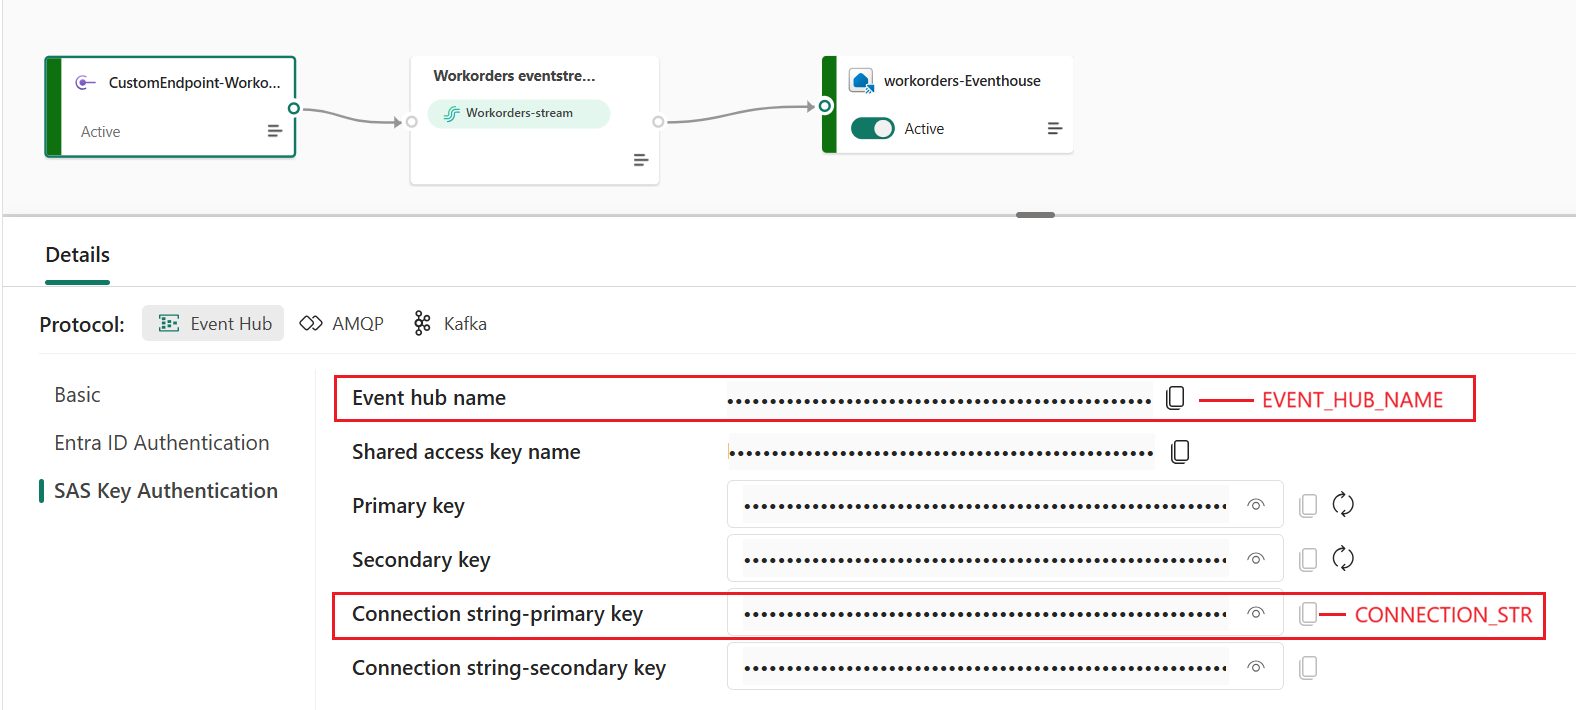
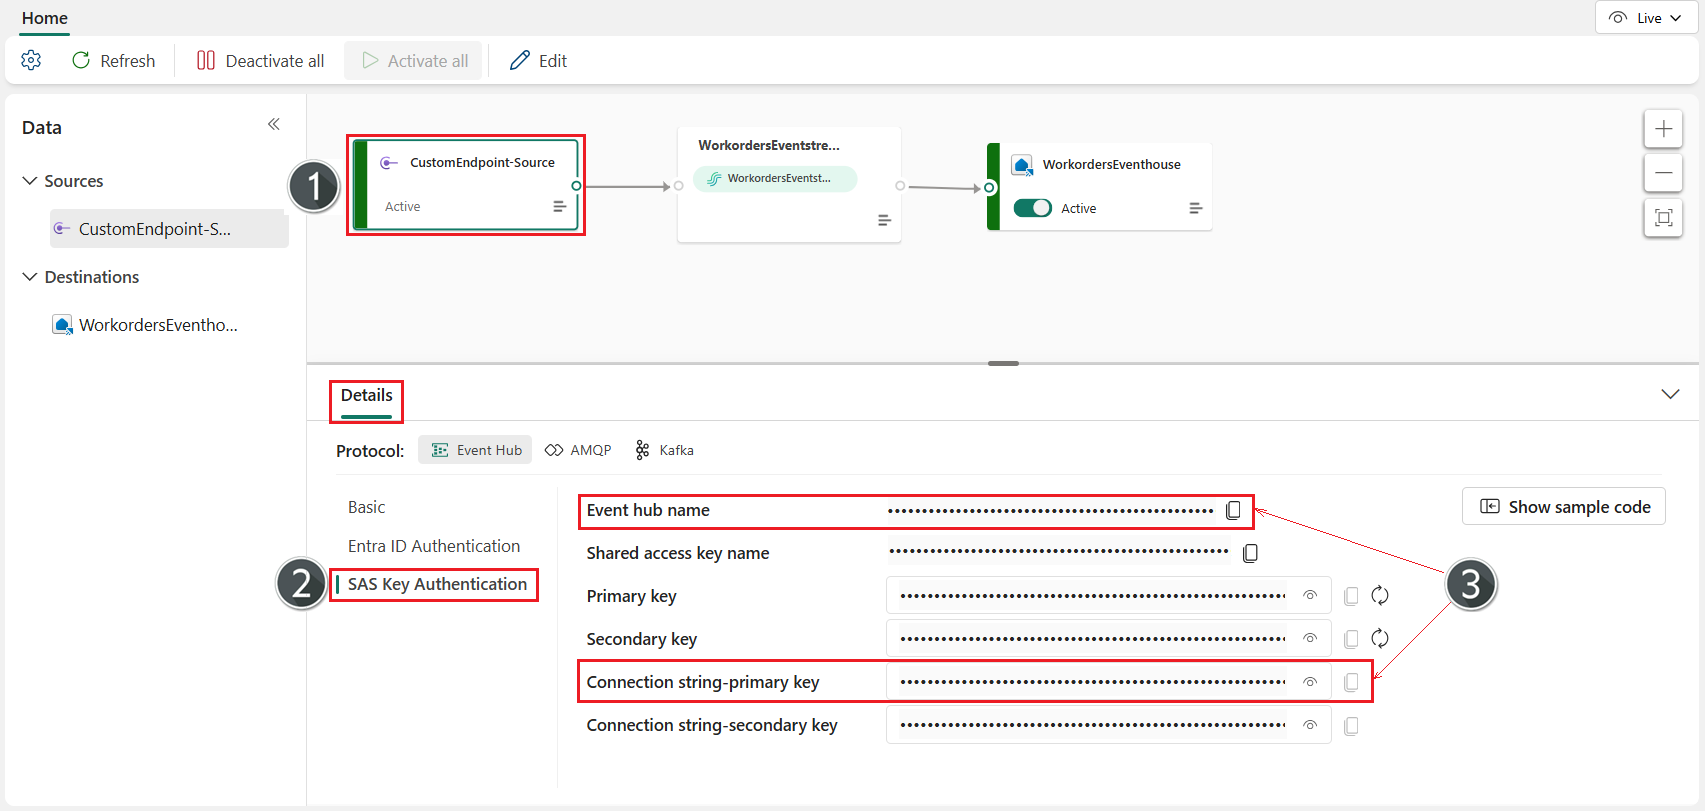
Updates

diff --git a/docs/real-time-intelligence/map/tutorial-real-time-work-order-routing-application.md b/docs/real-time-intelligence/map/tutorial-real-time-work-order-routing-application.md
@@ -60,7 +60,7 @@ To simulate a real-time streaming source, the notebook in the following steps us
 
 The work order data file contains sample work order records used in this tutorial to simulate a real‑time streaming source. After creating the file, you'll import it into a lakehouse in the next step.
 
-Copy and paste the following content into a text file, then save it as *workorder_locations.csv*. You'll use this file in the next step.
+Copy and paste the following content into a text file, then save it as *WorkorderLocations.csv*. You'll use this file in the next step.
 
 ```
 WorkorderID,Latitude,Longitude
@@ -80,14 +80,14 @@ WorkorderID,Latitude,Longitude
 Create a new lakehouse for incoming work order data and import the previously created work order location file.
 
 1. From your workspace, select **New item**, and enter *lakehouse* in the search box and select it to create a new lakehouse.
-1. Enter a name *WorkorderLocations-Lakehouse* and select **Create**.
-1. In the new lakehouse, select **Upload files** and upload the *workorder_locations.csv* file created in the previous step.
+1. Enter a name *WorkorderLocations_Lakehouse* and select **Create**.
+1. In the new lakehouse, select **Upload files** and upload the *WorkorderLocations.csv* file created in the previous step.
 1. In the new lakehouse, select the **Explorer** pane on the left side of the screen.
-1. In the **File** section of the **Explorer**, select *workorder_locations.csv* to view the file you uploaded.
+1. In the **File** section of the **Explorer**, select *WorkorderLocations.csv* to view the file you uploaded.
 1. In the **View settings**, select **First row as header**.
 1. (Optional) In the view drop-down list, select **Table view**.
 
-:::image type="content" source="media/tutorials/real-time-work-order-routing-application/work-order-location-file-preview.png" lightbox="media/tutorials/real-time-work-order-routing-application/work-order-location-file-preview.png" alt-text="Screenshot of the workorder_locations.csv file after importing it into a lakehouse.":::
+:::image type="content" source="media/tutorials/real-time-work-order-routing-application/work-order-location-file-preview.png" lightbox="media/tutorials/real-time-work-order-routing-application/work-order-location-file-preview.png" alt-text="Screenshot of the WorkorderLocations.csv file after importing it into a lakehouse.":::
 
 ## Create an eventstream and write data to an eventhouse
 
@@ -101,20 +101,20 @@ By ingesting eventstream data into an eventhouse, you make streaming events avai
 
 1. From your workspace, select **New item**, and enter *eventstream* in the search box.
 1. Select **Eventstream**.
-1. In the **New Eventstream** dialog, enter a **Name**: "Workorders-Eventstream", then select **Create**.
+1. In the **New Eventstream** dialog, enter a **Name**: "WorkordersEventstream", then select **Create**.
 1. In the **Design a flow to ingest, transform, and route streaming events** screen, select **Use custom endpoint**
   
     :::image type="content" source="media/tutorials/real-time-work-order-routing-application/use-custom-endpoint.png" alt-text="Screenshot of the Design a flow to ingest, transform, and route streaming events screen in Fabric, showing the option to Use custom endpoint.":::
 
 1. In the custom endpoint **Add souce** dialog, select **Add**.
 
-    :::image type="content" source="media/tutorials/real-time-work-order-routing-application/custom-endpoint-add-source.png" alt-text="A screenshot of the Add source dialog for Custom endpoint in Microsoft Fabric showing a breadcrumb navigation with Custom endpoint arrow Workorders-Eventstream at the top. The dialog contains a Source name field with red asterisk marked as required containing the text CustomEndpoint-Source. A teal Add button is highlighted in the bottom right corner of the dialog indicating that should be selected with no further action required.":::
+    :::image type="content" source="media/tutorials/real-time-work-order-routing-application/custom-endpoint-add-source.png" alt-text="A screenshot of the Add source dialog for Custom endpoint in Microsoft Fabric showing a breadcrumb navigation with Custom endpoint arrow WorkordersEventstream at the top. The dialog contains a Source name field with red asterisk marked as required containing the text CustomEndpoint-Source. A teal Add button is highlighted in the bottom right corner of the dialog indicating that should be selected with no further action required.":::
 
     The eventstream is created, next add an Eventhouse as the destination.
 
-1. In the **Workorders-eventstream** node of the eventstream designer select **Eventhouse** from the **Transform events or add destination** drop-down list.
+1. In the **WorkordersEventstream** node of the eventstream designer select **Eventhouse** from the **Transform events or add destination** drop-down list.
 
-    :::image type="content" source="media/tutorials/real-time-work-order-routing-application/event-stream-add-destination.png" lightbox="media/tutorials/real-time-work-order-routing-application/event-stream-add-destination.png" alt-text="A screenshot of the Microsoft Fabric eventstream designer showing a flow diagram with CustomEndpoint-Source connected to Workorders-eventstream node. A dropdown menu is expanded from the Transform events or add destination tile on the right side, displaying the Destinations section at the bottom showing several options including Eventhouse which is highlighted with a red rectangle indicating that it should be selected.":::
+    :::image type="content" source="media/tutorials/real-time-work-order-routing-application/event-stream-add-destination.png" lightbox="media/tutorials/real-time-work-order-routing-application/event-stream-add-destination.png" alt-text="A screenshot of the Microsoft Fabric eventstream designer showing a flow diagram with CustomEndpoint-Source connected to WorkordersEventstream node. A dropdown menu is expanded from the Transform events or add destination tile on the right side, displaying the Destinations section at the bottom showing several options including Eventhouse which is highlighted with a red rectangle indicating that it should be selected.":::
 
 1. The **Eventhouse destination configuration** pane appear on the right side of the screen. Fill out the details requested as follows, then select **Save**:
     1. **Data ingestion mode**: Set to **Event processing before ingestion**.
@@ -138,10 +138,7 @@ You need the *Event hub name* and *Connection string-primary key* values from th
 
 1. Select the custom endpoint source tile you just added.
 1. In the **Details** pane, select **SAS Key Authentication**.
-
-    :::image type="content" source="media/tutorials/real-time-work-order-routing-application/select-key.png" lightbox="media/tutorials/real-time-work-order-routing-application/select-key.png" alt-text="A screenshot showing the Eventstream designer with the SAS Key Authentication option highlighted in the details pane.":::
-
-1. Copy the following two values and save to be used in your notebook code:
+1. Copy the following two values and save them for use in your notebook code:
     * **Event hub name**: Used for the **EVENT_HUB_NAME** variable.
     * **Connection string-primary key**: Used for the **CONNECTION_STR** variable.
 
@@ -165,7 +162,7 @@ Create a notebook with code to import the work order location file from your lak
 
     :::image type="content" source="media/tutorials/real-time-work-order-routing-application/connect-notebook-lakehouse.png" alt-text="A screenshot of the Microsoft Fabric Explorer pane showing the Data items tab selected with a No data sources added message and an empty folder icon. Below the message is an Add data items dropdown button expanded to reveal three menu options: From OneLake catalog with a database icon, From Real-Time hub with a lightning bolt icon, and New lakehouse with a plus sign. The From OneLake catalog option is highlighted with a dark border indicating selection.":::
 
-1. Select **WorkorderLocations-Lakehouse** from the **OneLake catalog**. This is the lakehouse you created previously.
+1. Select **WorkorderLocationsLakehouse** from the **OneLake catalog**. This is the lakehouse you created previously.
 
 1. After creating the notebook and connecting it to your lakehouse, paste the following code into the first cell and run it to install the **Azure Event Hub** SDK:
 
@@ -191,7 +188,7 @@ Create a notebook with code to import the work order location file from your lak
     EVENT_HUB_NAME = "" # Event hub name
     producer = EventHubProducerClient.from_connection_string(conn_str=CONNECTION_STR, eventhub_name=EVENT_HUB_NAME)
     
-    df = spark.read.csv("Files/workorder_locations.csv", header=True, inferSchema=True)
+    df = spark.read.csv("Files/WorkorderLocations.csv", header=True, inferSchema=True)
     pdf = df.toPandas()
     total_records = len(pdf)
     
@@ -217,7 +214,10 @@ Create a notebook with code to import the work order location file from your lak
         time.sleep(0.1)
     ```
 
-1. Add the values for the variables **CONNECTION_STR** and **EVENT_HUB_NAME** obtained in the previous section titled [Get required SAS key authentication keys](#get-required-sas-key-authentication-keys)
+1. Add the values for the variables **CONNECTION_STR** and **EVENT_HUB_NAME** obtained in the previous section titled [Get required SAS key authentication keys](#get-required-sas-key-authentication-keys).
+1. Run the notebook code. This will create the *Workorders* table in the KQL database in the *WorkordersEventhouse* eventhouse.
+
+:::image type="content" source="media/tutorials/real-time-work-order-routing-application/work-order-table.png" alt-text="A screenshot of the Microsoft Fabric Eventhouse interface displaying the Workorders table with a Data preview tab selected. The left navigation panel shows the KQL databases tree with WorkordersEventhouse expanded, containing Tables with the Workorders table selected. The data preview shows nine rows of work order records with columns including WorkorderID, Latitude, Longitude, EventProcessedUtc timestamps, PartitionId, EventEnqueuedUtc timestamps, and IngestionTime values.":::
 
 ## Create a KQL queryset and add it as a map layer
 
@@ -422,11 +422,11 @@ To complete this section, you need an Azure account with an Azure Maps account a
 1. Select the **Save as** button in the menu and save the notebook as **OptimizeRoute**.
 1. Run the notebook code. This creates a new file named **optimized_route.geojson** in the **File** directory of your lakehouse.
 
-    :::image type="content" source="media/tutorials/real-time-work-order-routing-application/optimized-route-file.png" lightbox="media/tutorials/real-time-work-order-routing-application/optimized-route-file.png" alt-text="A screenshot of the Microsoft Fabric interface showing a notebook code cell on the right side with Python code that retrieves route data and writes a GeoJSON file. The Explorer pane on the left displays OneLake with WorkorderLocation expanded showing Tables and Files folders. The Files folder contains workorder_locations.csv and  optimized_route.geojson highlighted with a red box indicating the newly created output file. The center Files panel shows both files with optimized_route.geojson also highlighted. The notebook output at the bottom displays a success message stating Transformed Directions GeoJSON waypoints carry properties.optimizedIndex written to Files/optimized_route.geojson with execution time of 5 sec 750 ms.":::
+    :::image type="content" source="media/tutorials/real-time-work-order-routing-application/optimized-route-file.png" lightbox="media/tutorials/real-time-work-order-routing-application/optimized-route-file.png" alt-text="A screenshot of the Microsoft Fabric interface showing a notebook code cell on the right side with Python code that retrieves route data and writes a GeoJSON file. The Explorer pane on the left displays OneLake with WorkorderLocation expanded showing Tables and Files folders. The Files folder contains WorkorderLocations.csv and  optimized_route.geojson highlighted with a red box indicating the newly created output file. The center Files panel shows both files with optimized_route.geojson also highlighted. The notebook output at the bottom displays a success message stating Transformed Directions GeoJSON waypoints carry properties.optimizedIndex written to Files/optimized_route.geojson with execution time of 5 sec 750 ms.":::
 
 Once completed, a new map layer appears in your Fabric Maps map created in the previous section.
 
-:::image type="content" source="media/tutorials/real-time-work-order-routing-application/optimized-route-no-styles.png" alt-text="A screenshot of the Microsoft Fabric Maps interface displaying a street map of Vienna Austria with purple route lines connecting multiple waypoints marked by circles. The Explorer pane on the left shows Lakehouse and Eventhouse tabs with the Lakehouse tab expanded, revealing WorkorderLocations containing Tables and Files folders with workorder_locations.csv and optimized_route.geojson files. The Data layers panel in the upper left corner of the map shows two layers: Workorders-QS with red circular markers and optimized_route.geojson displaying the connected route path. The map background shows Vienna neighborhoods including Favoriten, Simmering, and Margareten with road networks visible.":::
+:::image type="content" source="media/tutorials/real-time-work-order-routing-application/optimized-route-no-styles.png" alt-text="A screenshot of the Microsoft Fabric Maps interface displaying a street map of Vienna Austria with purple route lines connecting multiple waypoints marked by circles. The Explorer pane on the left shows Lakehouse and Eventhouse tabs with the Lakehouse tab expanded, revealing WorkorderLocations containing Tables and Files folders with WorkorderLocations.csv and optimized_route.geojson files. The Data layers panel in the upper left corner of the map shows two layers: Workorders-QS with red circular markers and optimized_route.geojson displaying the connected route path. The map background shows Vienna neighborhoods including Favoriten, Simmering, and Margareten with road networks visible.":::
 
 ### Map layer settings
 
